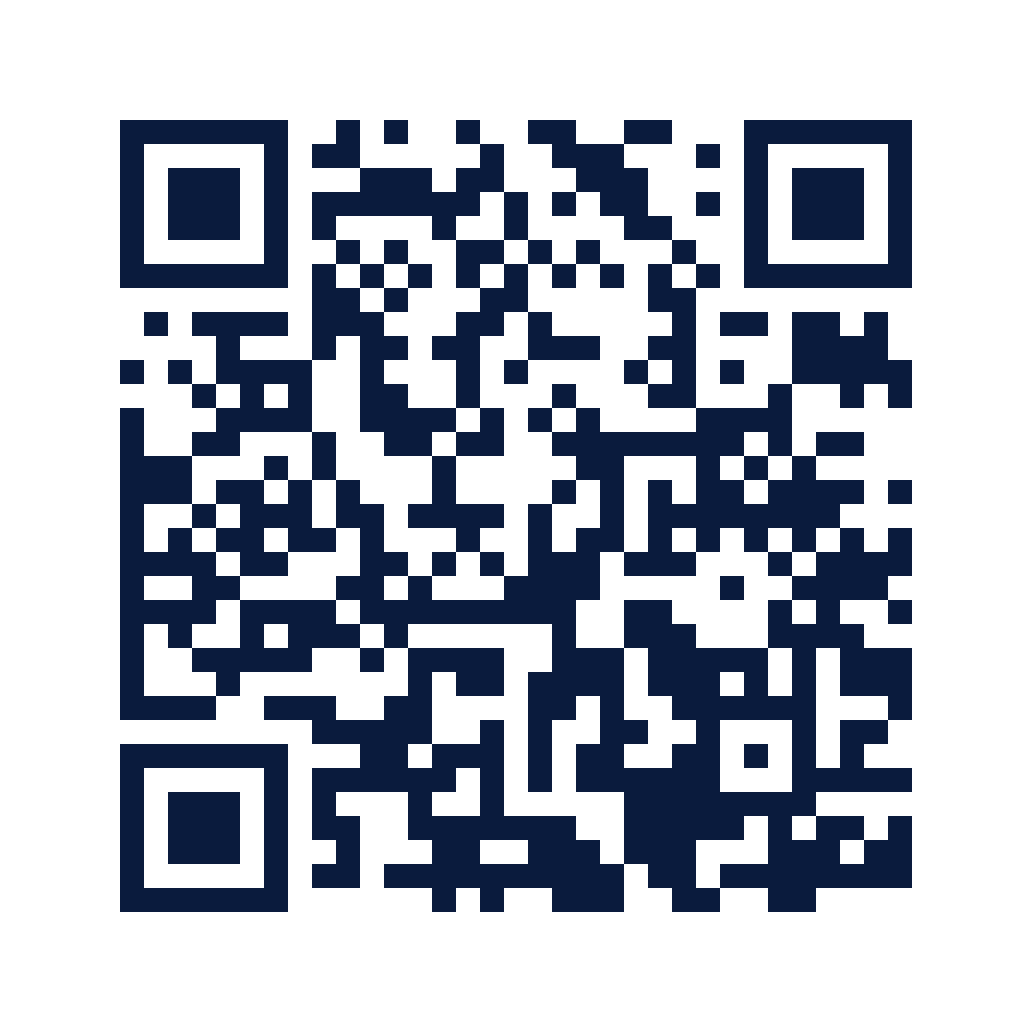
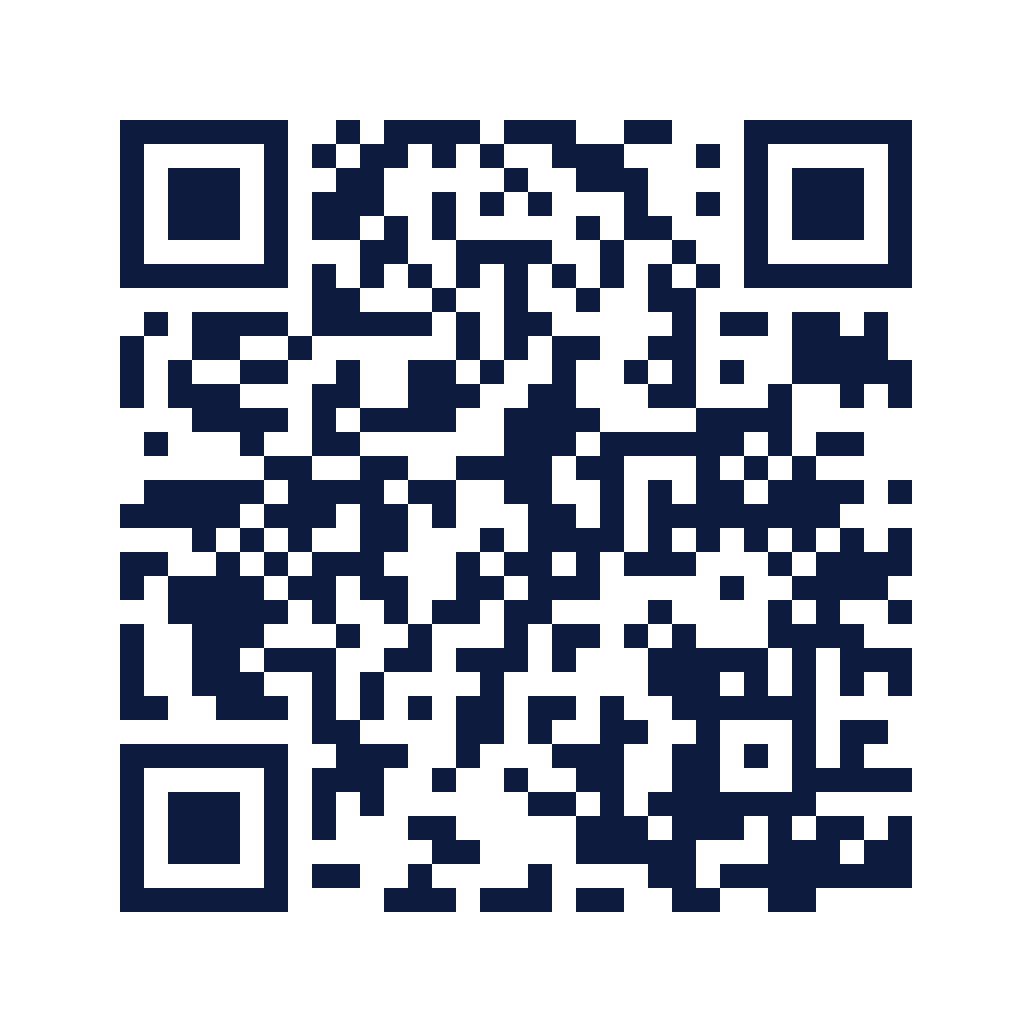
Counting QR scans and opens of the app link (decision 0031)
Kat, 2026-09-29: "The QR code though needs to track # of scans". The QR
now encodes /app?via=qr (both decoders read it back); /app sends one beacon
with only {via} to a new app-visit edge function, which adds one to today's
row in app_link_visits (20260929000005): a day, qr or link, a count, never
anything about the person. Tara sees "opened N times, M by scanning" beside
the QR link. Downloads by date are Apple's (App Store Connect Analytics).

app_link_visits.sql (8): the counting rule, only service_role writes, only
Tara reads; red with the write granted to members. Browser test: a scan
counts qr, a plain open counts link, the beacon carries nothing else; red
without the beacon. Round trip with the function served: 204 204 204,
qr 2 / link 1. hosted-smoke: a GET must be the function's own 405.

TOTAL: 1240 checks across 43 probes; 45 passed (browser).

Changed region(s): [[0.093, 0.093, 0.6512, 0.8992], [0.8372, 0.6512, 0.8992, 0.7132]]

diff --git a/web/index.html b/web/index.html
@@ -190,7 +190,7 @@ button.danger { border-color: #9B2C2C; color: #9B2C2C; }
     <!-- The QR code for members (question 75, decision 0024): a card to print
          or drop into her email. It points at /app, which forwards to wherever
          the app installs from, so it never needs reprinting. -->
-    <p class="muted" style="margin-top:14px"><a href="qr.html" target="_blank" rel="noopener" id="open-qr">QR code for the app</a></p>
+    <p class="muted" style="margin-top:14px"><a href="qr.html" target="_blank" rel="noopener" id="open-qr">QR code for the app</a> <span class="muted" id="qr-visits"></span></p>
 
     </div>
 
@@ -573,6 +573,7 @@ async function showApp() {
   loadReviewResponses();
   if (!$("tab-money").classList.contains("hide")) loadPayouts();
   loadBoardRate();
+  loadAppLinkVisits();
 }
 
 async function loadTemplates() {
@@ -933,6 +934,15 @@ $("br-rate-save").addEventListener("click", async () => {
   note($("br-msg"), "Saved.", true);
   if (boardRun) runBoardReport();
 });
+// How many opened the app link, and how many by scanning the code (Kat,
+// 2026-09-29; decision 0031). Counts only, per New York day.
+async function loadAppLinkVisits() {
+  const { data, error } = await sb.rpc("admin_app_link_visits");
+  if (error || !data) return;
+  const total = data.reduce((n, r) => n + r.visits, 0);
+  const qr = data.filter(r => r.via === "qr").reduce((n, r) => n + r.visits, 0);
+  $("qr-visits").textContent = total ? `· opened ${total} ${total === 1 ? "time" : "times"}, ${qr} by scanning` : "· not opened yet";
+}
 async function runBoardReport() {
   const from = $("br-from").value, to = $("br-to").value;
   note($("br-msg"), "");

diff --git a/supabase/functions/app-visit/index.ts b/supabase/functions/app-visit/index.ts
@@ -1,0 +1,28 @@
+// app-visit: counts one open of the app link (web/app/index.html).
+// Kat, 2026-09-29: "The QR code though needs to track # of scans".
+// A scan comes from a phone with no account, so verify_jwt is off
+// (config.toml) and there is no credential: the body is only which way they
+// came, and the database keeps only a day and that word (20260929000005).
+//
+//   POST { via: "qr" | "link" }  ->  204
+//
+// Nothing about the visitor is read or stored: no IP, no user agent.
+import { admin } from "../_shared/supabase.ts";
+
+const CORS = {
+  "Access-Control-Allow-Origin": "*",
+  "Access-Control-Allow-Methods": "POST, OPTIONS",
+  "Access-Control-Allow-Headers": "content-type",
+};
+
+Deno.serve(async (req) => {
+  if (req.method === "OPTIONS") return new Response(null, { status: 204, headers: CORS });
+  if (req.method !== "POST") return new Response(null, { status: 405, headers: CORS });
+  let via = "link";
+  try {
+    const body = await req.json();
+    if (body && body.via === "qr") via = "qr";
+  } catch { /* a beacon with no JSON body counts as a plain link */ }
+  const { error } = await admin.rpc("record_app_link_visit", { p_via: via });
+  return new Response(null, { status: error ? 500 : 204, headers: CORS });
+});

diff --git a/web/app/index.html b/web/app/index.html
@@ -43,6 +43,16 @@
   // touching this page, and so the browser test can prove the forwarding
   // works before the real link exists (web/tests/pages.spec.mjs).
   import { INSTALL_URL } from "./target.js";
+  import { CONFIG } from "../config.js";
+  // Count this open (Kat, 2026-09-29: "track # of scans"): only whether it
+  // came from the QR code (?via=qr) or a plain link, never who. A beacon, so
+  // it goes even as the page forwards; text/plain, so the browser sends it
+  // cross-origin without a preflight. The function reads the JSON anyway.
+  try {
+    const via = new URLSearchParams(location.search).get("via") === "qr" ? "qr" : "link";
+    navigator.sendBeacon(`${CONFIG.url}/functions/v1/app-visit`,
+      new Blob([JSON.stringify({ via })], { type: "text/plain" }));
+  } catch { /* counting must never stop the forward */ }
   if (INSTALL_URL) {
     document.getElementById("soon").hidden = true;
     const go = document.getElementById("go");

diff --git a/docs/architecture.md b/docs/architecture.md
@@ -52,10 +52,10 @@ most important thing to understand here, and it is section 5.
 
 | Area | State |
 |---|---|
-| Postgres schema, RLS, narrow views, RPCs | **Built**, 59 migrations. Which of them are on hosted is `supabase migration list --linked`, recorded after each push in `docs/whats-next.md` (49 of 49 paired on 2026-09-28); `20260928500001_uninvite_message.sql` goes with its PR, and `20260928800001_player_history.sql` and `20260928800002_copy_week.sql` with theirs (decision 0027), `20260929000001_canceled_drafts_stay_hidden.sql` and `20260929000002_unpublished_clinics_stay_quiet.sql` (a clinic never published is never shown or mentioned to a player) |
+| Postgres schema, RLS, narrow views, RPCs | **Built**, 60 migrations. Which of them are on hosted is `supabase migration list --linked`, recorded after each push in `docs/whats-next.md` (49 of 49 paired on 2026-09-28); `20260928500001_uninvite_message.sql` goes with its PR, and `20260928800001_player_history.sql` and `20260928800002_copy_week.sql` with theirs (decision 0027), `20260929000001_canceled_drafts_stay_hidden.sql` and `20260929000002_unpublished_clinics_stay_quiet.sql` (a clinic never published is never shown or mentioned to a player) |
 | Security model (explicit grants, revoked base tables, admin gate, anon executes nothing) | **Built**, enumerated by probes |
 | Pricing (member/non-member x 60/90 min), snapshot, revenue report | **Built** |
-| SQL probe suite (42 probes; the suite prints its own total) + concurrency probe, in CI | **Built** |
+| SQL probe suite (43 probes; the suite prints its own total) + concurrency probe, in CI | **Built** |
 | iOS: sign-in, sign-up with profile, password reset, three tabs | **Built** |
 | iOS: browse by week, per-viewer pricing, register / cancel (inside the 3-hour cutoff the full fee applies; the note is optional) / leave pool / respond, closed-clinic "Message Tara", the bell, My Clinics, profile edit, card on file | **Built** |
 | iOS admin tab: rosters, invite, courts, paid, unpaid reminder, message audiences, late requests, Action Needed (open disputes too, since 2026-09-28), player directory | **Built** |
@@ -64,6 +64,7 @@ most important thing to understand here, and it is section 5.
 | APNs push delivery | **Built, waiting on the key** (decision 0008). Client half: permission sheet, registration, `register_device`; since 2026-09-27 also receiving (MVP audit item 12): a push that lands while the app is open shows as a banner and reloads Home, a tap opens its clinic through the same resolver as the bell (`NotificationRouter.swift`), and the icon's number is the bell's count, cleared at sign-out. Checked on the simulator with `tests/push/simctl-push.sh`, which pushes the payload the sender builds. Sender (2026-09-23): trigger `push_on_notification` → pg_net → the `push` edge function → APNs, with `delivered_at` / `delivery_error` on each row, proven against a mock by `tests/push/run.sh`. Since 2026-09-28 the payload also carries `category: INVITATION` on an invitation (the category the app registers Accept and Decline under, `FXETennis/App/InvitationActions.swift`, 2026-09-28) and `thread-id`, the clinic's id, on every row about a clinic, so the lock screen groups them. Nothing is sent until Apple issues the key and the two vault secrets exist (`supabase/functions/README.md`, "What Alex does when the key arrives") |
 | Stripe card payments | **Built, switched off** (decision 0009): ledger, RPCs, three edge functions ACTIVE on hosted, card screen, `payments_ledger`. Since 2026-09-28 (branch `payouts-disputes`, not yet on hosted): `stripe-payouts` (Tara's Payouts card) and chargebacks recorded from `charge.dispute.*` webhooks (`stripe_record_dispute`, `admin_money_disputes`), a lost one subtracted from Charged and Collected. `app_settings.payments_enabled` is `false`; nothing charges until the Stripe keys are set (launch checklist A1); her policy answers landed 2026-09-16 and 2026-09-21 (decisions 0012, 0013). The sandbox-to-live switch is `stripe_cutover_to_live()`, run once by a person at the key swap (20260927200001; procedure in `supabase/functions/README.md`). Since 2026-09-28 (branch `declined-card`, decision 0026): a card Stripe declines blocks Register and Accept until a card is saved again or a later charge goes through, and says why in Tara's words; her **Resolved** clears a decline from her lists without unblocking the player |
 | A player's clinics as a subscribed calendar | **Built** (decision 0029, not yet on hosted): Subscribe in Calendar on Profile, the `calendar-feed` edge function, `calendar_feeds` |
+| Counting opens of the app link and QR scans | **Built** (decision 0031, not yet on hosted): the `app-visit` edge function (no JWT, counts only), `app_link_visits`, the count beside Tara's QR link |
 | Juniors / parent accounts | **Deferred** to November or the spring session (decision 0007) |
 | App Store / TestFlight | **Blocked** on Apple Developer enrollment for FXE Tennis, LLC |
 
@@ -100,7 +101,7 @@ flowchart TD
         auth -.->|"auth.uid() read by is_admin() / owns_player()"| pg
     end
 
-    edge["Edge functions (Deno, service_role)<br/>stripe-setup-intent, stripe-webhook, stripe-charge, stripe-payouts, delete-account, review-submit, push, admin-reset-link, calendar-feed"]
+    edge["Edge functions (Deno, service_role)<br/>stripe-setup-intent, stripe-webhook, stripe-charge, stripe-payouts, delete-account, review-submit, push, admin-reset-link, calendar-feed, app-visit"]
     edge --> pg
     gha["GitHub Actions<br/>probes, browser tests, Stripe pipeline (mocked), push pipeline (mocked), iOS build + tests,<br/>copy gate, secret scan, migration immutability, doc paths, nightly backup"] -.-> supa
 ```
@@ -415,6 +416,7 @@ future code path can demote Tara or promote anyone to admin
 | `payments` | The money ledger (decision 0009): one row per clinic fee, late cancel, no show or refund, with Stripe ids and a status only the edge functions or admin RPCs change. On a decline, `failure_reason` is Stripe's sentence and `failure_code` its machine code (`decline_code`, else `code`: `insufficient_funds`, `expired_card`, ..., 20260926000010), both written only by the Stripe edge functions. `livemode` is Stripe's own flag for the row's PaymentIntent or Refund (20260927200001): false (test mode) is never money, so the board report skips it and it never moves the Paid flag; since 20260927300001 it also stops counting as a charge anywhere once the club has switched to live (`payment_is_real`), and the one-charge unique indexes skip it. `first_attempted_at` (20260927300003) is stamped by `stripe-charge` at a row's first claim and measures the retry window; no client role can read or write it, so players read their own rows through a column-level SELECT of every other column. Chargebacks (20260928200001): `stripe_dispute_id`, `dispute_status` (Stripe's word), `dispute_reason`, `dispute_amount_cents` (what the bank disputes), `dispute_withdrawn_cents` (what Stripe actually took from the balance for it, from the dispute's balance transactions: nothing for an inquiry, a won dispute, or a charge already refunded), `disputed_at`, `dispute_due_by` (Stripe's respond-by) and `dispute_event_at` (the event that last wrote them), written only by `stripe-webhook` through `stripe_record_dispute`; not in the column list, so no client reads them, not even the payer (who can see `updated_at` move); a check constraint refuses a status without its id, amounts and event time. One dispute per payment. `resolved_at` and `resolved_by` (20260928700001): Tara's Resolved on a declined charge, written only by `admin_resolve_decline`, not in the column list; an update that writes only these (or nothing at all) keeps `updated_at`, which is when the charge failed. |
 | `message_templates` | Tara's saved messages (decision 0030): her own text, trimmed at its two ends, 1 to 1000 characters, `archived_at` for Remove. One live copy of any text, by a unique index on `md5(body)` over live rows. RLS on, no policy, no client privilege; reached only through the three `admin_*message_template*` RPCs. Nothing seeds it and nothing writes to it but her. |
 | `admin_settings` | Admin-only key/value (20260929000004): no client grant at all, unlike `app_settings`, which every member may read. Holds `board_share_percent`, Foxcroft's share on the board report (10 until Tara sets it; question 101) |
+| `app_link_visits` | Opens of the app link per New York day and source, `qr` or `link`, a count only (decision 0031, 20260929000005). No client grant; written by the `app-visit` edge function through `record_app_link_visit` (service_role only), read by Tara through `admin_app_link_visits` |
 | `app_settings` | Small admin-editable strings, e.g. Tara's payment line, and the payment policy keys (`payments_enabled`, `cancel_cutoff_hours`, …). `stripe_live_since` appears only when `stripe_cutover_to_live()` has run. Never anything hidden. |
 | `calendar_feeds` | One calendar-feed token per account (decision 0029, 20260929000003): 32 random bytes as hex, the only credential for `GET /functions/v1/calendar-feed?t=<token>` (calendar apps send nothing else). No client privilege and RLS with no policy; made by `my_calendar_feed_token`, replaced by `reset_my_calendar_feed`, read by `calendar_feed_events`; removed by the trigger `calendar_feed_forget_deleted_account` when `accounts.deleted_at` is set, and cascaded by a hard delete. A token is a credential, not history |
 | `review_links` | One row per link to Tara's review page (`web/review.html?t=<token>`, 20260921000010). The token is the credential: 24 random bytes, URL-safe, minted by `admin_create_review_link`; `revoked_at` retires a link without deleting what it collected. No client role holds anything on it. |
@@ -475,6 +477,7 @@ card was declined). `new_york_date` is the date helper both use.
 | `admin_set_no_show`, `admin_charge_clinic` | Came or No-show on a You're In! row, refused once that row holds a live fee (`charged_refund_first`: refund first; since 20260928600001 the transition itself is the internal `registration_set_no_show`, shared with the pro's call, as `admin_mark_late_cancel`'s is `registration_mark_late_cancel`); her one tap per ended clinic (decision 0012), which refuses a canceled clinic (`clinic_canceled`), skips a late cancel when the same player holds a You're In! row there, and locks the clinic's rows while it charges (20260927100001). Since 20260927300001 it refuses a clinic that ended before `app_settings.payments_enabled_at`, and every clinic while that is empty (`clinic_before_payments`), and skips a row Tara marked Paid that holds no live fee. |
 | `admin_resolve_decline` | Tara's **Resolved** on a declined card she will not chase (decision 0024, question 83; 20260928700001): stamps `resolved_at` / `resolved_by` on a failed, unresolved charge (never a refund), which takes it out of Action Needed and the Declined figures; anything else is `decline_not_open`. The ledger keeps the charge, and the player's card stays declined. |
 | `admin_board_share_percent`, `admin_set_board_share_percent` | Tara reads and sets Foxcroft's share on the Money tab (0 to 25, one decimal); `admin_board_report` uses it through the internal `board_share_percent()` (20260929000004, question 101) |
+| `admin_app_link_visits` | Tara's QR and link open counts per day (decision 0031); `record_app_link_visit` is its internal writer, service_role only |
 | `admin_resolve_held_payment` | Tara records what Stripe shows for a held charge (processing with `idempotency_error` or `retry_window_passed`, which `stripe-charge` will never retry): `succeeded` (through the same Paid trigger the webhook fires) or `canceled` (frees the charge). Anything else is `payment_not_held` (20260927300003). |
 | `revenue_summary` | The four numbers and the money (section 7). Since 2026-09-27 the web admin reads only its four counts; the money comes from `admin_money_summary`. Kept (hard rule 6). |
 | `admin_money_summary`, `admin_money_clinics`, `admin_money_declined` | The Money numbers from the ledger (20260927100003): charged (succeeded fees minus their succeeded refunds, all time: the board report's collected without dates), declined and not charged yet for ended, not canceled clinics; per clinic, with how many not-charged players have a card (what one more Charge clinic would charge); and the declined list with the cardholder's name, the clinic and Stripe's code. One definition, the internal `money_rows()`, which the three only aggregate. Since 20260927300001 only clinics ending at or after `payments_enabled_at` owe anything, a row Tara marked Paid with no live fee is settled, the declined list carries `account_deleted` (Action Needed leaves those out), and the web's This week tab keeps exactly the clinics these say are chargeable or declined. Since 20260928200001 charged also subtracts what Stripe withdrew for every **lost dispute** on a fee it counts (`dispute_withdrawn_cents`, so a charge already refunded loses nothing twice); open and won disputes subtract nothing, and `money_rows` is unchanged, so a lost dispute keeps the fee charged and Charge clinic never charges that player again. Since 20260928700001 `money_rows` gives a declined row whose failed charge Tara marked Resolved the state `resolved`, counted nowhere (like `settled`), and returns that failed charge's id (`failed_payment_id`), which `admin_money_declined` hands on as `payment_id` for her Resolved button. |
@@ -773,7 +776,7 @@ local stack and are order-dependent on a fresh seed. **They do not run in
 CI**: the macOS runner has no Docker for the stack; a `fxe-ci` Supabase
 project is the ask (`docs/launch-checklist.md` §F).
 
-**Web admin**: 44 Playwright tests (`web/tests/*.spec.mjs`) walk Tara's
+**Web admin**: 45 Playwright tests (`web/tests/*.spec.mjs`) walk Tara's
 side against a fresh seed: sign-in and the non-admin door, prices, walk-up,
 courts, unpaid reminder, a note round-trip, cancel clinic, template archive
 and restore, Money counts, the card-payments ledger, payments off, the

diff --git a/docs/decisions/0031-app-link-visits.md b/docs/decisions/0031-app-link-visits.md
@@ -1,0 +1,40 @@
+# 0031: Counting opens of the app link, and scans of the QR code
+
+**Date:** 2026-09-29 · **Status:** Active · **Source:** Kat, 2026-09-29:
+*"The QR code though needs to track # of scans and can someone confirm that
+apple will tell us how many downloads happen by date?"*
+
+## What we chose
+
+1. The QR code now encodes `https://fxe-tennis-admin.vercel.app/app?via=qr`
+   (regenerated by `scripts/make-qr.swift`, read back by Core Image and by
+   Vision). The link written under it stays the short `/app`, so a typed or
+   emailed link is counted apart from a scan.
+2. `/app` sends one beacon per open to the `app-visit` edge function with
+   only `{"via": "qr" | "link"}`. The database keeps one row per New York
+   day and source with a count (`app_link_visits`, `20260929000005`):
+   no IP address, no device, nothing about the person, so there is nothing
+   to disclose in the privacy policy beyond a count.
+3. Tara reads the totals on her Players tab beside the QR link
+   ("opened 12 times, 9 by scanning"); `admin_app_link_visits` returns the
+   rows per day for anything finer later.
+4. **Downloads by date are Apple's**, not ours: App Store Connect →
+   Analytics shows first-time downloads per day once the app is on the App
+   Store; for TestFlight, the TestFlight tab shows each tester's status and
+   installs per build, not a daily chart. Between the two, a scan count here
+   and Apple's downloads there tell the story: scanned, then installed.
+
+## Rejected
+
+- **Vercel Web Analytics or any third-party tracker**: a script from
+  someone else on the page members open, a dashboard Tara would not look at,
+  and more data than a count. Ours is 40 lines and says exactly what it keeps.
+- **Counting on the server by request logs**: Vercel serves `/app` as a static
+  file; there is no log we own.
+
+## How we would know this was wrong
+
+The count is public to write: anyone who finds the function can inflate it
+(the worst case is a wrong number, never a leak). If a number ever matters
+for money or a decision, add a per-day cap or move the count behind a
+signed token.

diff --git a/docs/decisions/README.md b/docs/decisions/README.md
@@ -39,6 +39,7 @@ The history of what we believed is part of the record.
 | [0028](0028-instant-open.md) | Instant open: the last good answer kept on the phone per person, shown at launch and refreshed behind it; with no signal it stays with the connection line; removed at sign-out, a server-ended session and deletion; nothing hidden is ever in it | 2026-09-28 | Active |
 | [0029](0029-calendar-feed.md) | A player's clinics as a subscribed calendar: Subscribe in Calendar on Profile, You're In! and Response Needed only, nothing about where or which court, the token as the credential, removed at deletion | 2026-09-28 | Active |
 | [0030](0030-saved-messages.md) | Tara's saved messages: her own text kept and offered back in the Message dialog and Message Players, never written by the app; kept once by a unique index over live rows; Remove archives; admin only, pros refused too | 2026-09-28 | Active |
+| [0031](0031-app-link-visits.md) | Opens of the app link counted per day as QR or link, nothing about the person; Tara sees the totals by the QR link; downloads by date are Apple's (App Store Connect) | 2026-09-29 | Active |
 | [0011](0011-no-email-verification-v1.md) | No email verification in v1; hosted "Confirm email" is OFF by hand, and every new project needs the same flip | 2026-08-16 | Active |
 
 Tara's own numbered decisions (1–23, calls of 2026-08-02 and 2026-08-12) are

diff --git a/docs/launch-checklist.md b/docs/launch-checklist.md
@@ -118,10 +118,10 @@ observer.
 
 | Layer | Runs where | Count 2026-09-28 | Gap |
 |---|---|---|---|
-| SQL probes (rules, privileges, attacks, concurrency) | every PR, and locally | 1231 checks, 42 probes, plus eleven race probes | none known |
+| SQL probes (rules, privileges, attacks, concurrency) | every PR, and locally | 1240 checks, 43 probes, plus eleven race probes | none known |
 | Stripe pipeline against stripe-mock | every PR | 94 checks | real Stripe behaviour waits on A2 |
 | Push pipeline against a mock APNs | every PR | 57 checks | real APNs waits on C3 |
-| Web admin browser tests (Playwright, real sign-in) | every PR | 44 | a cold-start flake after a local reset (backlog) |
+| Web admin browser tests (Playwright, real sign-in) | every PR | 45 | a cold-start flake after a local reset (backlog) |
 | Swift unit tests (pure logic) | every PR | 232 | fine |
 | Hosted signed-out smoke (`scripts/hosted-smoke.sh`) | every PR, read-only against production | 126 targets, including a browser preflight to each function the web admin calls | only the signed-out side |
 | XCUITests, player and admin flows, and Apple's accessibility audit | **local only** (section F) | 22 | run on a laptop before every TestFlight build |

diff --git a/docs/copy-review.md b/docs/copy-review.md
@@ -71,6 +71,13 @@ so the gate cannot see them: they are listed here by hand.
 | ☐ | *Evening Coed* (Response Needed) | An event's title for an invitation still waiting on her answer; a You're In! clinic is its name alone | Tara's locked term, composed with the clinic's own name |
 | — | -//FXE Tennis//Clinic Calendar//EN | The feed's `PRODID`, which calendar apps do not show | A label, not copy |
 
+## The app link's open count (2026-09-29, decision 0031) — awaiting Alex
+
+| ✓ | Words | Where | Why |
+|---|---|---|---|
+| ☐ | · opened 12 times, 9 by scanning | Tara's Players tab, beside "QR code for the app" | The two numbers Kat asked for, in one line |
+| ☐ | · not opened yet | The same place before anyone has opened it | Says the fact |
+
 ## Foxcroft's share on the board report (2026-09-29) — awaiting Alex
 
 | ✓ | Words | Where | Why |

diff --git a/docs/whats-next.md b/docs/whats-next.md
@@ -57,10 +57,10 @@ admin's Players tab.
 Missing on the phone by design: creating or editing a clinic (web only),
 News (deferred, decision 0006).
 
-Testing today: 44 Playwright tests, 22 XCUITests (8 player flows, 6 on
+Testing today: 45 Playwright tests, 22 XCUITests (8 player flows, 6 on
 Tara's side, 2 on a pro's, and 5 accessibility checks: Apple's audit on the
 player's, Tara's and the pro's screens, the status bar and the Return key),
-232 unit tests, 42 SQL probes, a 94-check Stripe pipeline and a 57-check push pipeline
+232 unit tests, 43 SQL probes, a 94-check Stripe pipeline and a 57-check push pipeline
 against mocks in CI.
 Since 2026-09-28 (decision 0026): a card
 Stripe declines holds no spot until a card is saved again, and says why in

diff --git a/web/README.md b/web/README.md
@@ -53,7 +53,7 @@ get committed aimed at the wrong project. Sign in as `tara@fxe.test` /
 
 ## Test it
 
-44 Playwright tests (`cat web/tests/*.spec.mjs | grep -cE '^\s*test\('`,
+45 Playwright tests (`cat web/tests/*.spec.mjs | grep -cE '^\s*test\('`,
 2026-09-28) walk this page the way Tara does, against the LOCAL stack on a
 fresh seed. They are the only automated check on the web admin,
 so they run in CI on every push (`web-browser-tests` in `probes.yml`).
